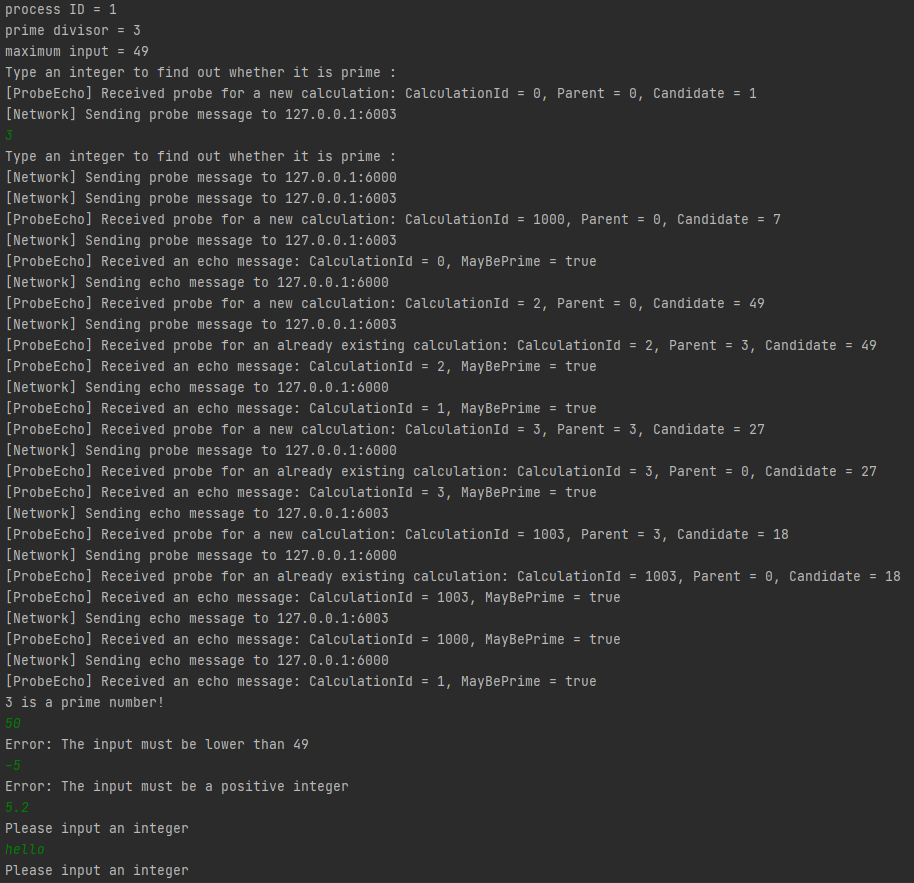
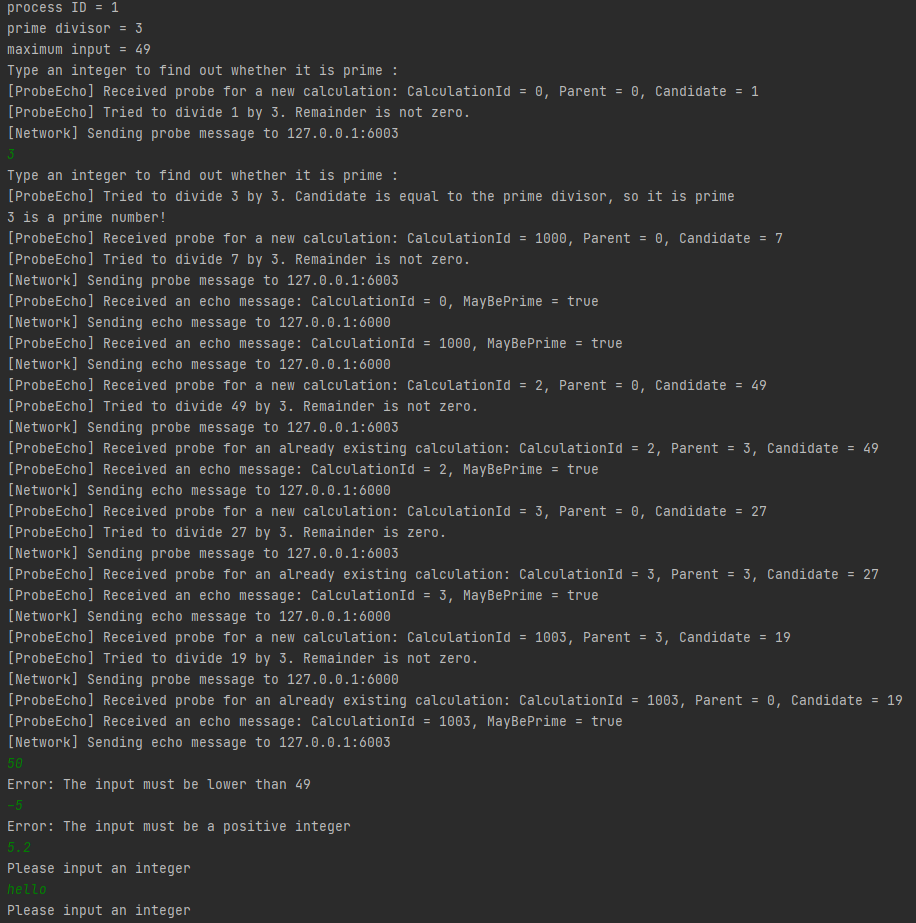
remake test scenarios

diff --git a/README.md b/README.md
@@ -23,7 +23,7 @@ Use the `config.json` file given, and execute the following steps. Make sure you
 - In process 1, type `3`
 - In process 2, type `49`
 - In process 3, type `27`
-- In process 3 again, type `18`
+- In process 3 again, type `19`
 - In process 1, type `50`
     - You should get an error at this point, telling you that the number must be lower than 49
 - In process 1 again, type `-5`
